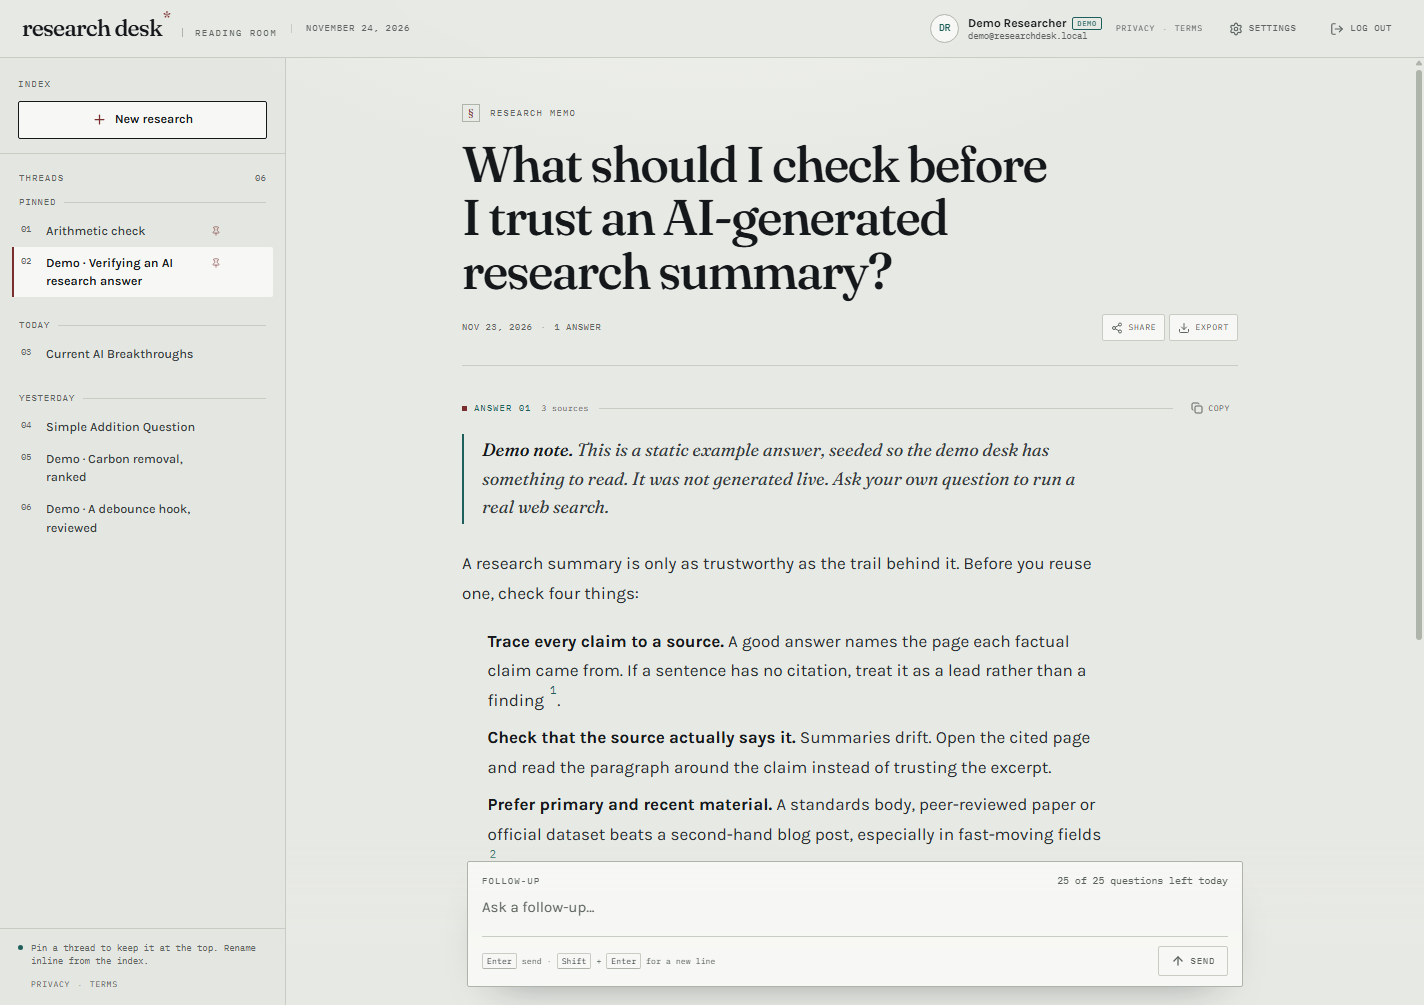
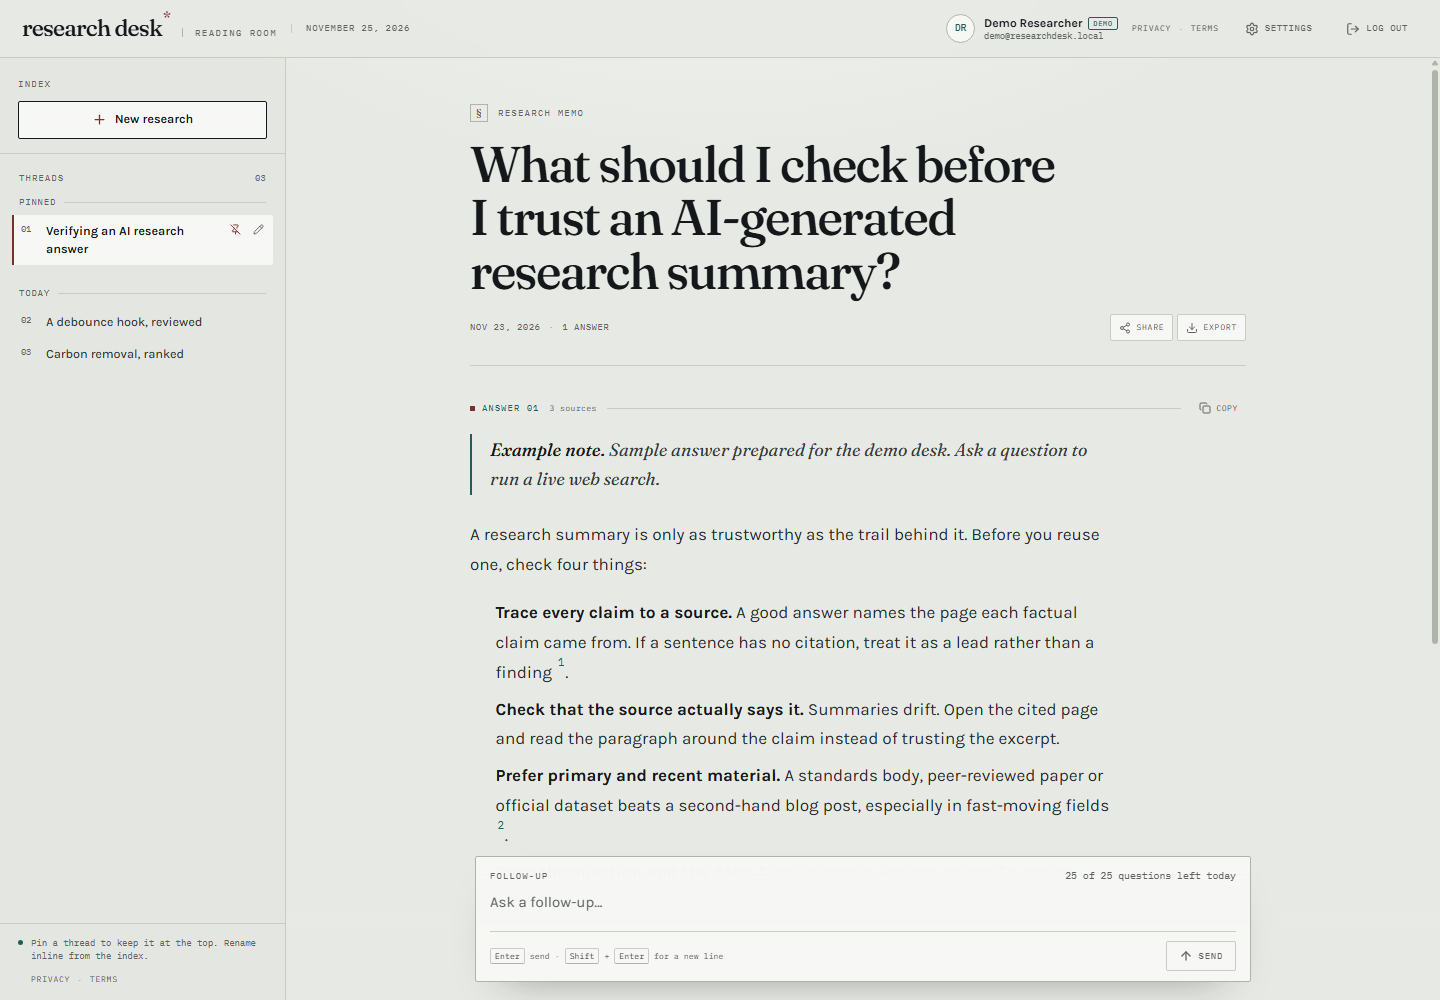
Refresh the recruiter case studies and product screenshots

diff --git a/src/data/projects.ts b/src/data/projects.ts
@@ -46,6 +46,66 @@ export interface Project {
 
 export const projects: Project[] = [
   {
+    slug: "mosaic",
+    name: "Mosaic",
+    shortName: "Mosaic",
+    category: "Social photo app",
+    status: "Case study",
+    featured: true,
+    tagline: "A complete social loop for photos, stories and messages.",
+    description:
+      "Mosaic is a full social photo product behind a clean Instagram-style shell: a Following feed, an Explore grid, profiles, stories, direct messages, notifications, search and saved posts. The interesting work is underneath the familiar surface: cursor-paginated feeds, unread state without a socket server, threaded comments, block filtering, mention fan-out, 24-hour story expiry, and a warmed guest cache that keeps Explore fast. The folder, repo and domain keep the original Insta Clone name so old links still work.",
+    stack: [
+      "React 19",
+      "Vite",
+      "Sass",
+      "Express 5",
+      "MongoDB",
+      "ImageKit",
+      "JWT",
+      "Render",
+      "Vercel",
+    ],
+    highlights: [
+      "A full social graph: posts, stories, likes, nested comments and comment likes, follows, saves, blocks and reports.",
+      "Direct messages with conversation unread counts, shared post cards, read receipts and incremental polling without a realtime service.",
+      "Notifications for likes, comments, replies, follows and mentions, with live unread badges in the navigation.",
+      "People, caption and hashtag search, suggested accounts, follower lists and a private Saved grid.",
+      "Stories expire after 24 hours through a MongoDB TTL index; the viewer supports keyboard navigation and seen state.",
+      "Cursor pagination, a warmed stale-while-revalidate guest feed cache and batched reads keep the feed fast on a free Render instance.",
+    ],
+    contextNote:
+      "The live demo uses the shared demo_mosaic account, pre-filled on the sign-in page. The API runs on Render's free plan, so the first request after idle may take a moment.",
+    repo: "https://github.com/fk219/Insta-Clone",
+    demo: "https://insta-clone.furqankhan.dev",
+    screenshots: [
+      {
+        src: "/projects/mosaic/home.png",
+        alt: "Mosaic Following feed with a story rail, post card and unread notification badge",
+        width: 1425,
+        height: 1000,
+      },
+      {
+        src: "/projects/mosaic/messages.png",
+        alt: "Mosaic direct messages with a conversation list, shared post card and read receipt",
+        width: 1425,
+        height: 1000,
+      },
+      {
+        src: "/projects/mosaic/profile.png",
+        alt: "Mosaic profile for @demo_mosaic with a six-photo grid and follower counts",
+        width: 1425,
+        height: 1000,
+      },
+    ],
+    cover: {
+      from: "#eaf5ff",
+      to: "#7fbdf5",
+      ink: "#0b2b4a",
+      motif: "frames",
+    },
+  },
+  {
     slug: "moodify",
     name: "Moodify",
     shortName: "Moodify",
@@ -73,15 +133,21 @@ export const projects: Project[] = [
       "JWT cookies, bcrypt hashing, token-version revocation, Helmet headers, and scoped rate limits sit behind the room.",
     ],
     contextNote:
-      "The camera path runs in the browser. The deployed API uses Render's free plan, so the first request after idle may take a moment.",
+      "The live demo opens in one click from the sign-in page. The camera path runs in the browser, and the API uses Render's free plan, so the first request after idle may take a moment.",
     repo: "https://github.com/fk219/Moodify",
     demo: "https://moodify.furqankhan.dev",
     screenshots: [
       {
         src: "/projects/moodify/home.png",
-        alt: "Moodify listening room with mood check-in, camera lens, and now-playing bar",
-        width: 1440,
-        height: 900,
+        alt: "Moodify listening room with a happy mood ring, manual check-in and now-playing bar",
+        width: 1425,
+        height: 1000,
+      },
+      {
+        src: "/projects/moodify/journal.png",
+        alt: "Moodify private weekly journal with mood bars, dominant mood and recent check-ins",
+        width: 1425,
+        height: 1000,
       },
     ],
     cover: {
@@ -92,93 +158,49 @@ export const projects: Project[] = [
     },
   },
   {
-    slug: "journal",
-    name: "Journal",
-    shortName: "Journal",
-    category: "Photo journal & public portfolio",
-    status: "Case study",
-    featured: true,
-    tagline: "A contact sheet for slow looking, with a portfolio on the back.",
-    description:
-      "Journal treats a social feed as a printed contact sheet: numbered frames, date stamps, white cards, and a serif masthead. Members post one photograph at a time, leave notes, follow each other, and keep a quiet public portfolio at /u/:username. The backend does the unglamorous work — cursor pagination, real counts, image validation, session revocation, export, and deletion — so the surface can stay calm.",
-    stack: [
-      "React 19",
-      "Vite",
-      "Sass",
-      "Express 5",
-      "MongoDB",
-      "ImageKit",
-      "JWT",
-    ],
-    highlights: [
-      "A cursor-paginated contact sheet built from one aggregation for author, like count, comment count, and viewer state.",
-      "Every member's /u/:username profile doubles as a public portfolio that works signed out.",
-      "Comments, follows, likes, and a protected create-post flow are wired to real API routes.",
-      "Images are resized and compressed in the browser, then validated by MIME and file signature on the server.",
-      "Settings covers password change, a full JSON export, and self-serve deletion with typed confirmation.",
-    ],
-    contextNote:
-      "The live app uses a shared demo account. The API runs on Render's free plan, so the first request after idle may take a moment.",
-    repo: "https://github.com/fk219/Insta-Clone",
-    demo: "https://insta-clone.furqankhan.dev",
-    screenshots: [
-      {
-        src: "/projects/journal/home.png",
-        alt: "Journal contact sheet with numbered photo frames and a public portfolio rail",
-        width: 1425,
-        height: 900,
-      },
-      {
-        src: "/projects/journal/profile.png",
-        alt: "Journal public profile for @demo_journal with a contact sheet and frame count",
-        width: 1425,
-        height: 900,
-      },
-    ],
-    cover: {
-      from: "#f1e9da",
-      to: "#b39b78",
-      ink: "#2e271e",
-      motif: "frames",
-    },
-  },
-  {
     slug: "model-arena",
     name: "Model Arena",
     shortName: "Model Arena",
     category: "AI model evaluation",
     status: "Case study",
     featured: true,
-    tagline: "Two models answer. A third judge keeps score.",
+    tagline: "Pick two models. A third judge keeps score.",
     description:
-      "Public benchmarks are averages; a developer's actual question is not. Model Arena sends one prompt to Cohere and Groq in parallel, then asks a third model to score both answers, explain its reasoning, and call a winner. The result is a shareable fight card, a Markdown report, and a local leaderboard of who keeps winning your prompts. A LangGraph state machine keeps the orchestration readable and the judge's output typed.",
+      "Public benchmarks are averages; a developer's actual question is not. Model Arena sends one prompt to two selectable models from an OpenRouter catalog, runs them in parallel, then asks a judge model to score both answers, explain its reasoning, and call a winner. The result is a shareable fight card, a Markdown report, and a local leaderboard of who keeps winning your prompts. When no OpenRouter key is configured, the arena deliberately falls back to Cohere and Groq so the live demo still works.",
     stack: [
       "React 19",
       "Vite",
       "Express 5",
       "TypeScript",
       "LangGraph",
+      "OpenRouter",
       "Cohere",
       "Groq",
       "Zod",
     ],
     highlights: [
-      "Cohere and Groq answer in parallel; a third Groq pass judges both through a structured Zod schema.",
-      "Every bout keeps the judge's written feedback and a compact verdict, not just a score.",
-      "Shareable #b= reports compress the full card into a URL; Markdown export covers long-form sharing.",
-      "A local battle history and per-model leaderboard turn single prompts into a working record.",
-      "Per-IP limits, prompt caps, a 60-second timeout, and an LRU cache make the experiment repeatable.",
+      "Two model selectors backed by a curated OpenRouter catalog; the pair is saved locally and checked before a bout.",
+      "Fighters answer in parallel while a separate judge uses structured output and defensive JSON parsing to return typed scores, feedback and a winner.",
+      "A no-key fallback pair keeps the live demo working, and the UI presents it as an intentional demo bout instead of a broken selector.",
+      "Shareable #b= reports compress the full scorecard into a URL, with Markdown export and a local battle history.",
+      "Per-IP limits, prompt caps, a 60-second timeout, and an LRU cache make repeated prompts cheap and safe.",
     ],
     contextNote:
-      "The live API runs on Render's free plan and is rate-limited, so a cold start can take up to a minute.",
+      "The live demo runs the no-key fallback pair, Cohere vs Groq. The OpenRouter catalog and selectors are wired and activate with an OpenRouter key. The API is on Render's free plan, so a cold start can take up to a minute.",
     repo: "https://github.com/fk219/AI-Battle-Arena",
     demo: "https://ai-battle-arena.furqankhan.dev",
     screenshots: [
       {
         src: "/projects/model-arena/home.png",
-        alt: "Model Arena fight card with a prompt composer, starter prompts, and a judges' scorecard",
+        alt: "Model Arena battle card with the demo fighter pair, prompt starters and composer",
         width: 1440,
-        height: 900,
+        height: 1000,
+      },
+      {
+        src: "/projects/model-arena/battle.png",
+        alt: "Model Arena judges' scorecard with Cohere and Groq answers, scores and written reasoning",
+        width: 1440,
+        height: 1000,
       },
     ],
     cover: {
@@ -216,7 +238,7 @@ export const projects: Project[] = [
       "Daily quotas, per-IP limits, HTTP-only sessions, and token-version logout keep the workspace honest.",
     ],
     contextNote:
-      "The live API runs on Render's free plan and answers through Groq and Tavily. The demo desk is shared.",
+      "The live API runs on Render's free plan and answers through Groq and Tavily. The one-click demo desk is shared and seeded with three sample notes.",
     repo: "https://github.com/fk219/Perplexity-Clone",
     demo: "https://perplexity.furqankhan.dev",
     screenshots: [
@@ -224,13 +246,19 @@ export const projects: Project[] = [
         src: "/projects/research-desk/home.png",
         alt: "Research Desk reading room with a research composer and suggested lines of inquiry",
         width: 1440,
-        height: 900,
+        height: 1000,
       },
       {
         src: "/projects/research-desk/answer.png",
-        alt: "Research Desk research memo with a sourced answer, numbered citations, and a source trail",
+        alt: "Research Desk research memo with a sourced answer and numbered citations",
         width: 1440,
-        height: 900,
+        height: 1000,
+      },
+      {
+        src: "/projects/research-desk/sources.png",
+        alt: "Research Desk source cards with numbered references and source links",
+        width: 1440,
+        height: 1000,
       },
     ],
     cover: {

diff --git a/src/components/apps/Store.tsx b/src/components/apps/Store.tsx
@@ -42,8 +42,8 @@ const collections = [
     id: "fullstack",
     kicker: "Full-stack, end to end",
     title: "The unglamorous work.",
-    blurb: "Auth, bookings, catalogues, commerce, and the data model underneath.",
-    slugs: ["klinikly", "foliofind", "learnhub", "hooked-on-cakes"],
+    blurb: "Auth, messages, bookings, catalogues, commerce, and the data model underneath.",
+    slugs: ["mosaic", "klinikly", "foliofind", "learnhub", "hooked-on-cakes"],
   },
 ];
 

diff --git a/DEMO_ACCESS.md b/DEMO_ACCESS.md
@@ -2,6 +2,35 @@
 
 Every live project is reviewable without creating an account. Seeded accounts are for demos only; do not enter personal, medical, or payment information.
 
+## Featured product demos
+
+### Mosaic
+
+- Live: https://insta-clone.furqankhan.dev
+- Demo: `demo_mosaic` / `DemoMosaic2026!`
+- Press **Use demo account** on the sign-in page. The account is shared and already has posts, stories, messages, notifications and a saved post.
+- The API runs on Render's free plan, so the first request after idle may take up to a minute.
+
+### Model Arena
+
+- Live: https://ai-battle-arena.furqankhan.dev
+- No login. Choose a starter prompt or write one, then send it.
+- The deployed demo runs the fixed Cohere vs Groq pair. The OpenRouter model catalog and selectors are wired and activate when an OpenRouter key is configured.
+
+### Research Desk
+
+- Live: https://perplexity.furqankhan.dev
+- Press **Open the demo desk** on the sign-in page. No credentials are required.
+- The shared demo desk is seeded with three sample research notes, each with numbered sources.
+- The API runs on Render's free plan, so the first request after idle may take up to a minute.
+
+### Moodify
+
+- Live: https://moodify.furqankhan.dev
+- Press **Enter the demo room** on the sign-in page for one-click access.
+- Fallback credentials: `demo@moodify.local` / `DemoRoom2026!`
+- The demo room is shared and already has a seeded weekly journal. The camera is optional; the manual check-in works without it.
+
 ## Hooked on Cakes
 
 - Storefront: https://hookedoncakes.furqankhan.dev
